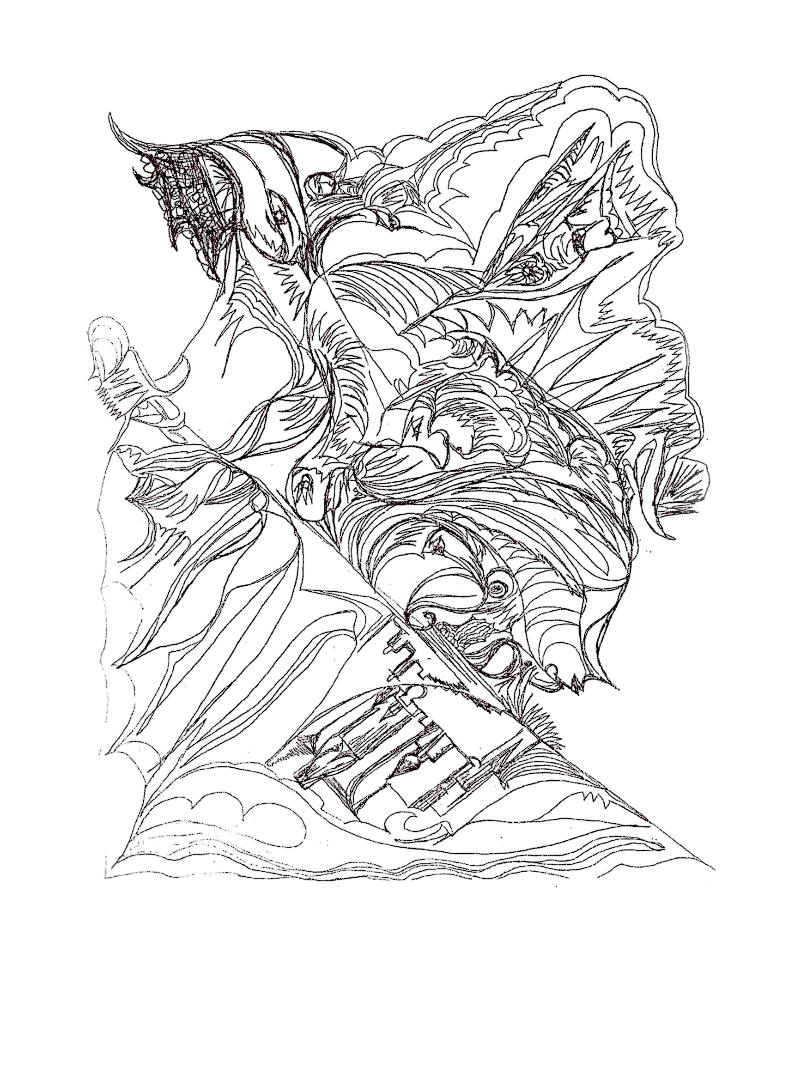
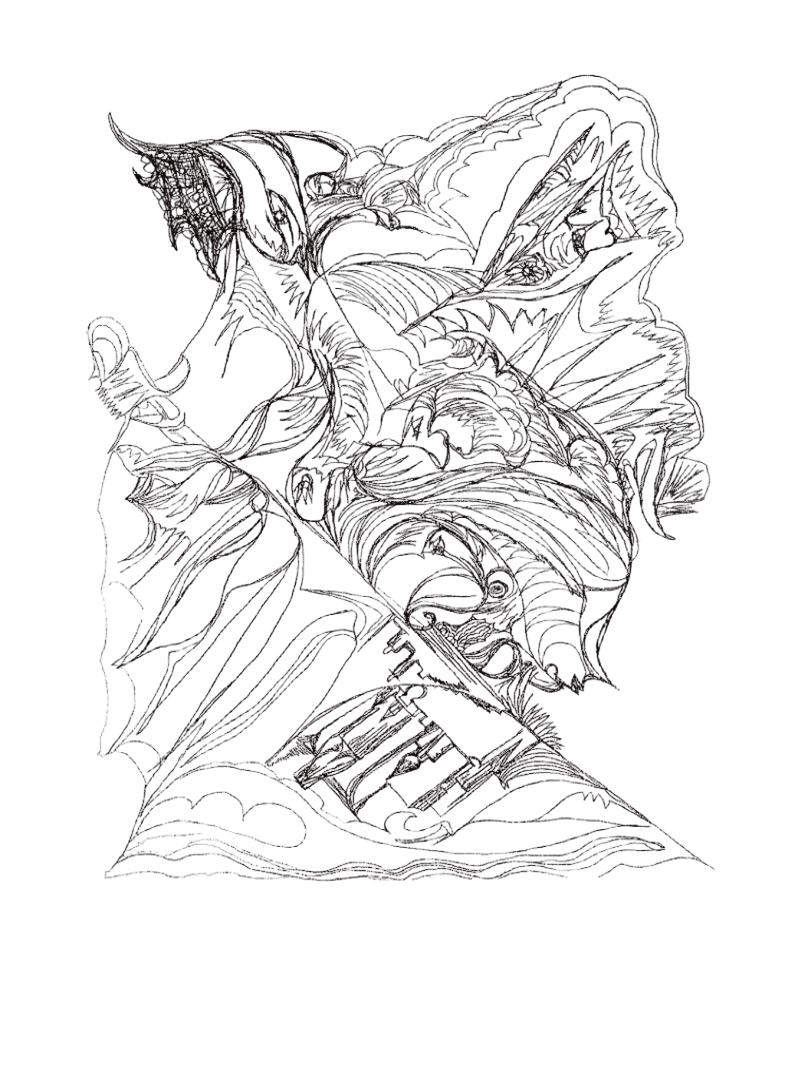
add images

diff --git a/js/app.js b/js/app.js
@@ -4,7 +4,7 @@ const App = {
         canvasWidth: 785,
         canvasHeight: 800,
         images: [
-            //{ id: 1, name: "Тест 1", filename: "images/test1.png", thumbnail: "images/thumbnails/test1_thumb.png" },
+            { id: 1, name: "Тест 1", filename: "images/test1.png", thumbnail: "images/thumbnails/test1_thumb.png" },
             { id: 2, name: "Тест 2", filename: "images/test2.png", thumbnail: "images/thumbnails/test2_thumb.png" },
             { id: 3, name: "Тест 3", filename: "images/test3.png", thumbnail: "images/thumbnails/test3_thumb.png" },
             { id: 4, name: "Тест 4", filename: "images/test4.png", thumbnail: "images/thumbnails/test4_thumb.png" },
